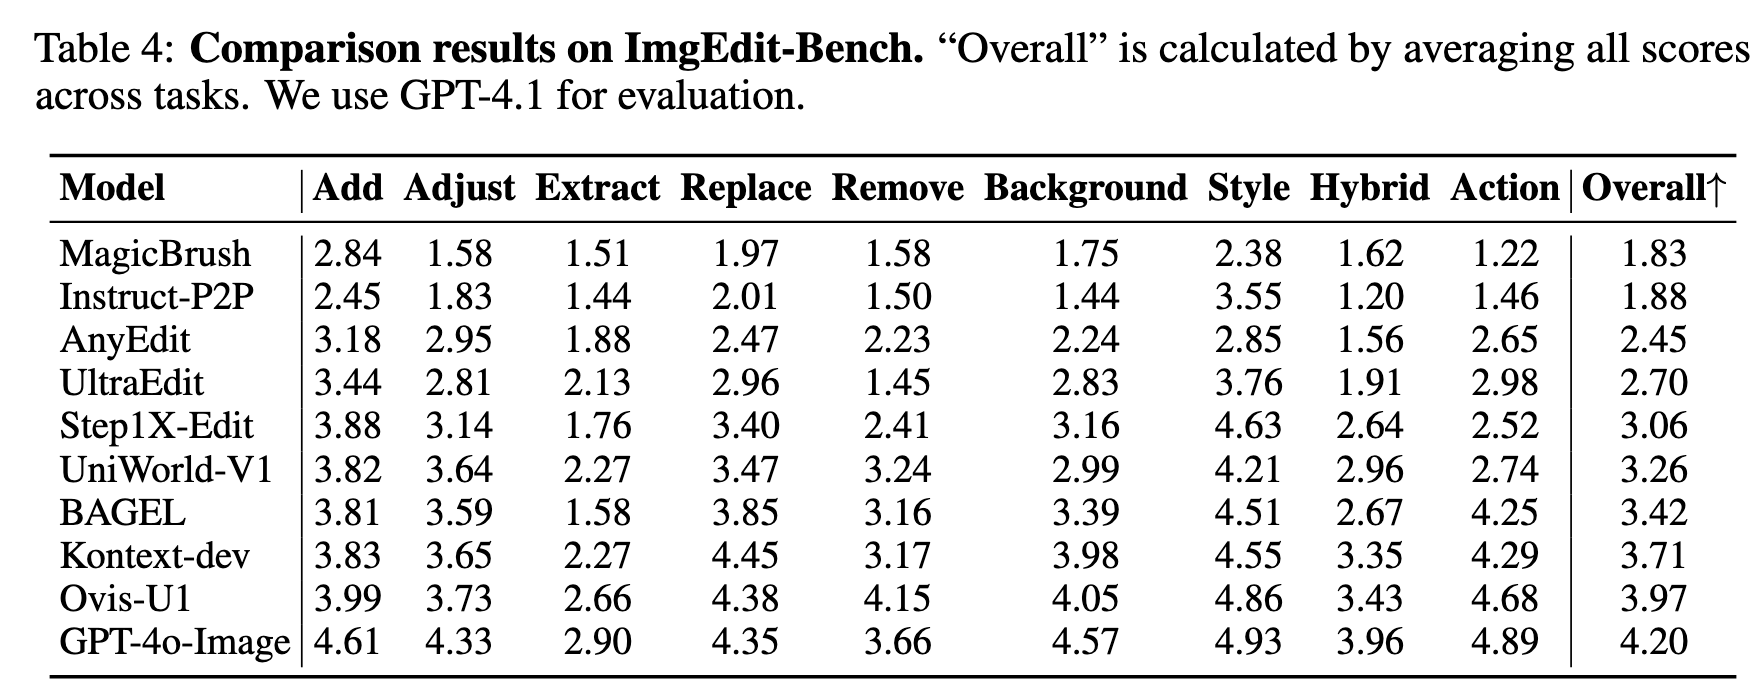
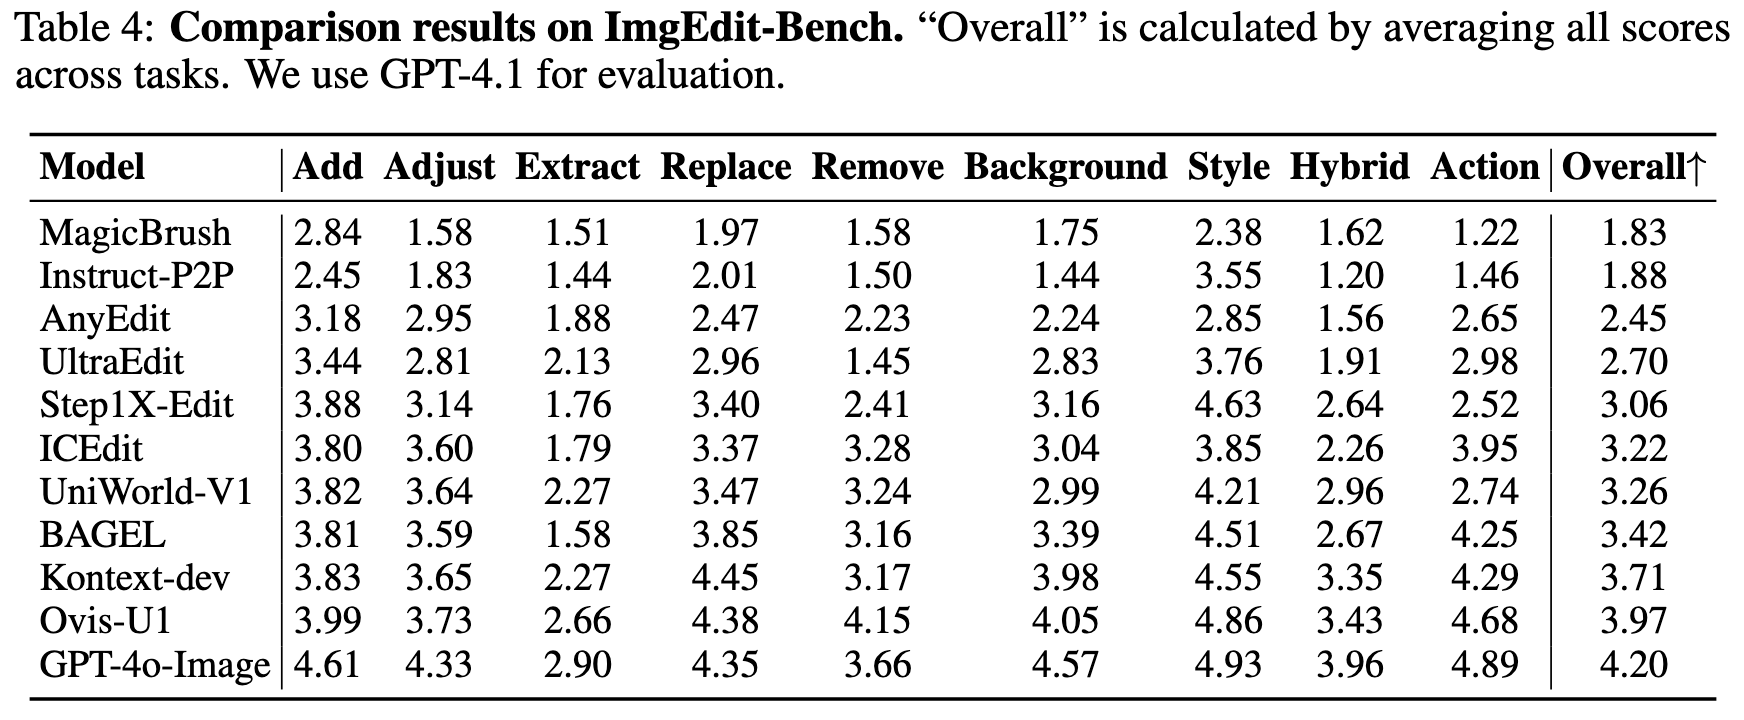
update

Changed region(s): [[0.0, 0.0, 1.0, 0.9957]]

diff --git a/README.md b/README.md
@@ -44,7 +44,7 @@ It includes a basic testsuite, a challenging single-turn suite, and a dedicated 
 We evaluate both open-source and proprietary models, as well as ImgEdit-E1.
 
 # 🔥 News
-- [2025.07.21] We update our leaderboard [here](#jump), add BAGEL, Flux-Kontext-dev and Ovis-U1 on ImgEditBench.
+- [2025.07.21] We update our leaderboard [here](#jump), add ICEdit, BAGEL, Flux-Kontext-dev and Ovis-U1 on ImgEditBench.
 - [2025.06.24] We update some results of [ImgEdit-Bench](https://github.com/PKU-YuanGroup/ImgEdit#%EF%B8%8F-imgedit-bench), including **BAGEL** and **Uniworld-V1**.
 - [2025.06.03] We have open-sourced **UniWorld-V1**, which inherits the powerful editing capabilities of **ImgEdit-E1**. It is trained on 700K subset of ImgEdit. For more details, please refer to https://github.com/PKU-YuanGroup/UniWorld-V1.
 - [2025.05.26] We have finished upload the ImgEdit datasets together with original dataset.
